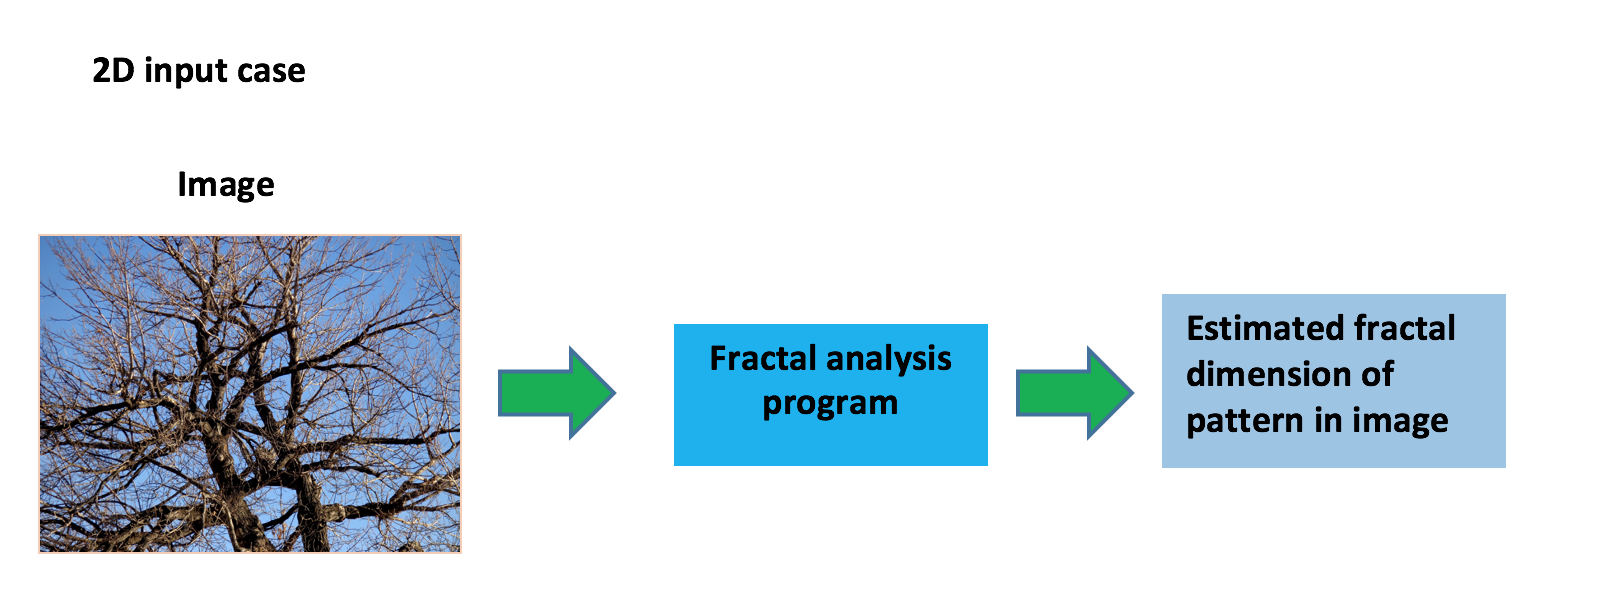
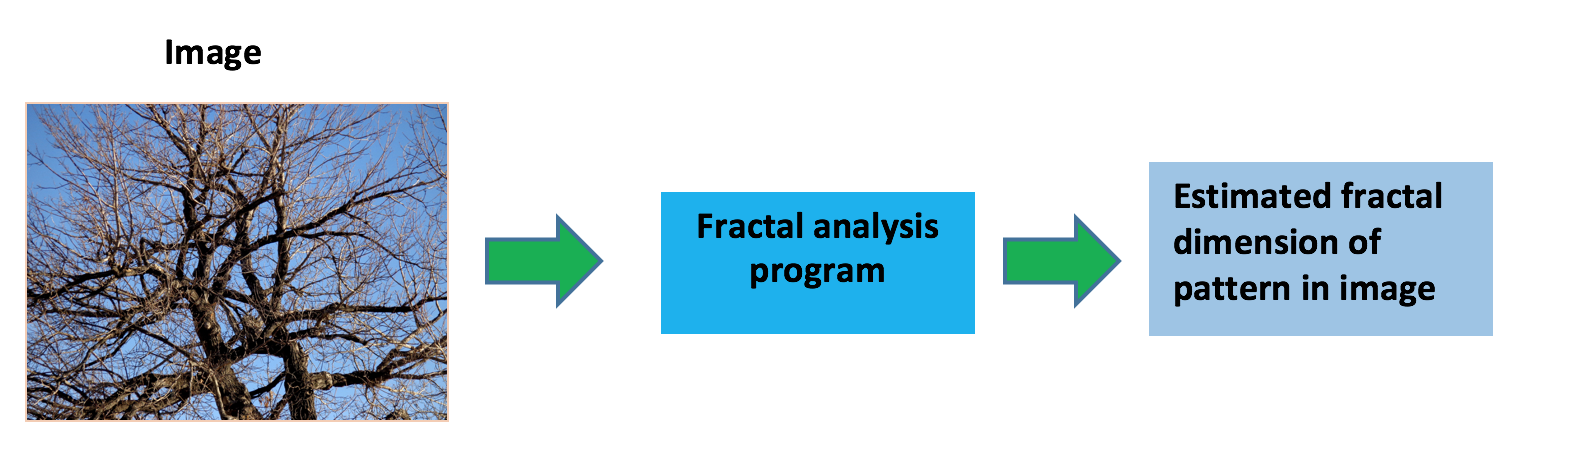
Fixed heading

Changed region(s): [[0.0, 0.213, 0.4014, 0.9435], [0.4014, 0.3348, 0.9572, 0.7913], [0.0618, 0.0913, 0.1853, 0.1522]]

diff --git a/README.md b/README.md
@@ -9,7 +9,10 @@ Written by Kazuaki Iida
 
 Fractal provides a convenient framework to estimate the fractal dimension of any pattern contained in an image, or any geometry contained in a point cloud. 
 
+### 2D Input Case
 ![alt text](https://raw.githubusercontent.com/kaziida24/fractal/master/figures/2d_flowchart.png "Summary of Program Capabilities")
+
+
 
 
 ## Table of Contents
